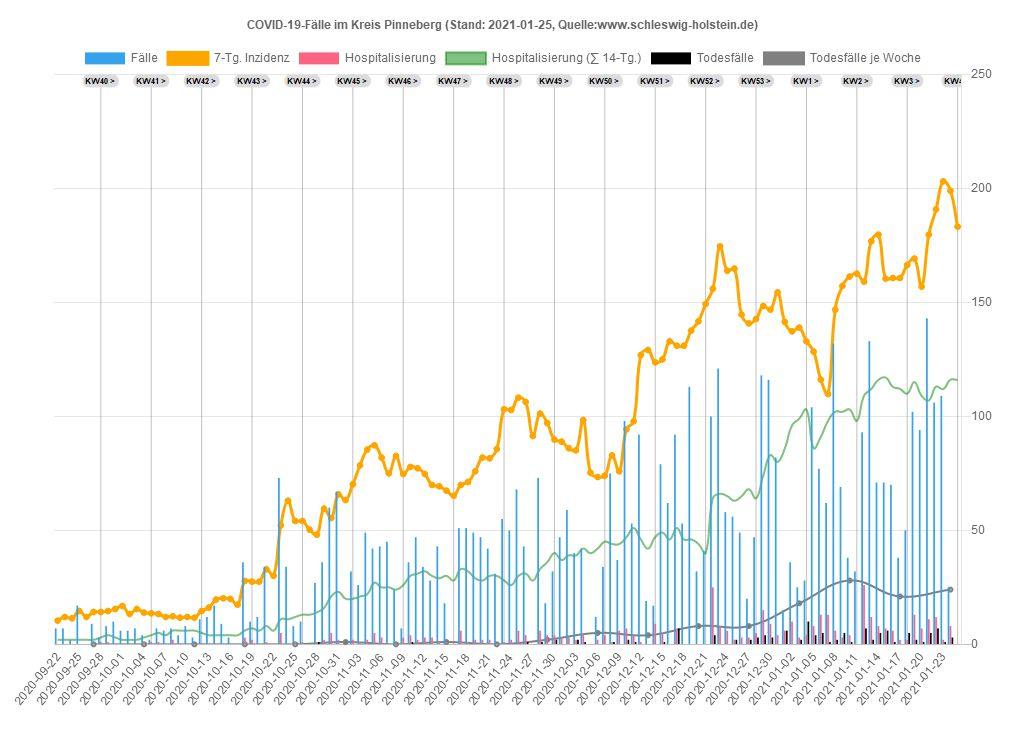
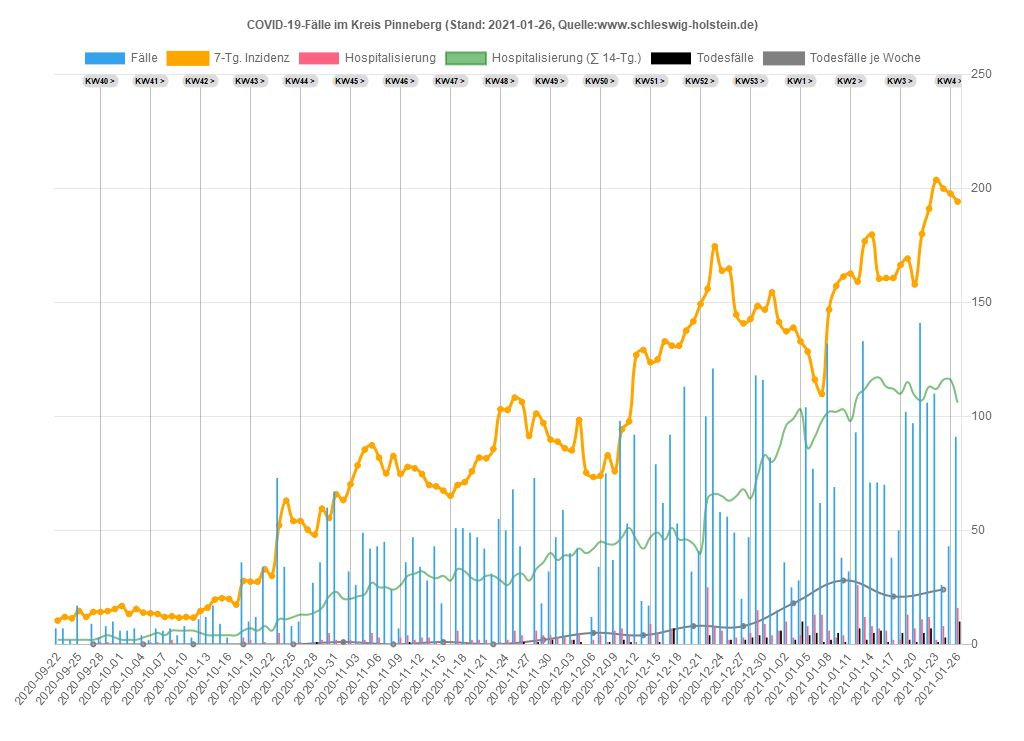
26.01.2021 22:02:45,57

Changed region(s): [[0.0312, 0.2173, 0.9375, 0.9622], [0.1875, 0.0931, 0.9375, 0.1242], [0.125, 0.0931, 0.1562, 0.1242]]

diff --git a/sh/Data_SH.js b/sh/Data_SH.js
@@ -1,20 +1,20 @@
 var chdata={
-labels: ["2020-09-22","2020-09-23","2020-09-24","2020-09-25","2020-09-26","2020-09-27","2020-09-28","2020-09-29","2020-09-30","2020-10-01","2020-10-02","2020-10-03","2020-10-04","2020-10-05","2020-10-06","2020-10-07","2020-10-08","2020-10-09","2020-10-10","2020-10-11","2020-10-12","2020-10-13","2020-10-14","2020-10-15","2020-10-16","2020-10-17","2020-10-18","2020-10-19","2020-10-20","2020-10-21","2020-10-22","2020-10-23","2020-10-24","2020-10-25","2020-10-26","2020-10-27","2020-10-28","2020-10-29","2020-10-30","2020-10-31","2020-11-01","2020-11-02","2020-11-03","2020-11-04","2020-11-05","2020-11-06","2020-11-07","2020-11-08","2020-11-09","2020-11-10","2020-11-11","2020-11-12","2020-11-13","2020-11-14","2020-11-15","2020-11-16","2020-11-17","2020-11-18","2020-11-19","2020-11-20","2020-11-21","2020-11-22","2020-11-23","2020-11-24","2020-11-25","2020-11-26","2020-11-27","2020-11-28","2020-11-29","2020-11-30","2020-12-01","2020-12-02","2020-12-03","2020-12-04","2020-12-05","2020-12-06","2020-12-07","2020-12-08","2020-12-09","2020-12-10","2020-12-11","2020-12-12","2020-12-13","2020-12-14","2020-12-15","2020-12-16","2020-12-17","2020-12-18","2020-12-19","2020-12-20","2020-12-21","2020-12-22","2020-12-23","2020-12-24","2020-12-25","2020-12-26","2020-12-27","2020-12-28","2020-12-29","2020-12-30","2020-12-31","2021-01-01","2021-01-02","2021-01-03","2021-01-04","2021-01-05","2021-01-06","2021-01-07","2021-01-08","2021-01-09","2021-01-10","2021-01-11","2021-01-12","2021-01-13","2021-01-14","2021-01-15","2021-01-16","2021-01-17","2021-01-18","2021-01-19","2021-01-20","2021-01-21","2021-01-22","2021-01-23","2021-01-24","2021-01-25"],
+labels: ["2020-09-22","2020-09-23","2020-09-24","2020-09-25","2020-09-26","2020-09-27","2020-09-28","2020-09-29","2020-09-30","2020-10-01","2020-10-02","2020-10-03","2020-10-04","2020-10-05","2020-10-06","2020-10-07","2020-10-08","2020-10-09","2020-10-10","2020-10-11","2020-10-12","2020-10-13","2020-10-14","2020-10-15","2020-10-16","2020-10-17","2020-10-18","2020-10-19","2020-10-20","2020-10-21","2020-10-22","2020-10-23","2020-10-24","2020-10-25","2020-10-26","2020-10-27","2020-10-28","2020-10-29","2020-10-30","2020-10-31","2020-11-01","2020-11-02","2020-11-03","2020-11-04","2020-11-05","2020-11-06","2020-11-07","2020-11-08","2020-11-09","2020-11-10","2020-11-11","2020-11-12","2020-11-13","2020-11-14","2020-11-15","2020-11-16","2020-11-17","2020-11-18","2020-11-19","2020-11-20","2020-11-21","2020-11-22","2020-11-23","2020-11-24","2020-11-25","2020-11-26","2020-11-27","2020-11-28","2020-11-29","2020-11-30","2020-12-01","2020-12-02","2020-12-03","2020-12-04","2020-12-05","2020-12-06","2020-12-07","2020-12-08","2020-12-09","2020-12-10","2020-12-11","2020-12-12","2020-12-13","2020-12-14","2020-12-15","2020-12-16","2020-12-17","2020-12-18","2020-12-19","2020-12-20","2020-12-21","2020-12-22","2020-12-23","2020-12-24","2020-12-25","2020-12-26","2020-12-27","2020-12-28","2020-12-29","2020-12-30","2020-12-31","2021-01-01","2021-01-02","2021-01-03","2021-01-04","2021-01-05","2021-01-06","2021-01-07","2021-01-08","2021-01-09","2021-01-10","2021-01-11","2021-01-12","2021-01-13","2021-01-14","2021-01-15","2021-01-16","2021-01-17","2021-01-18","2021-01-19","2021-01-20","2021-01-21","2021-01-22","2021-01-23","2021-01-24","2021-01-25","2021-01-26"],
 datasets: [
 {label: 'Fälle',
 type: 'bar',
 backgroundColor: window.chartColors.blue,
-data: [38,42,63,53,15,15,38,48,49,27,50,16,24,39,54,45,79,54,26,25,65,65,65,55,90,26,88,163,111,160,136,236,142,115,164,164,280,215,313,265,161,142,236,262,220,274,233,177,215,252,247,192,296,158,161,100,294,208,264,250,153,121,145,251,256,225,180,219,71,81,244,240,245,318,234,122,179,356,340,443,429,444,144,210,506,522,489,553,440,193,280,589,673,366,177,201,188,268,576,466,357,135,264,203,265,542,537,482,523,408,143,261,399,491,422,417,358,202,239,468,482,504,458,441,144,109]},
+data: [38,42,63,53,15,15,38,48,49,27,50,16,24,39,54,45,79,54,26,25,65,65,65,55,90,26,88,163,111,160,136,236,142,115,164,164,280,215,313,265,161,142,236,262,220,274,233,177,215,252,247,192,296,158,161,100,294,208,264,250,153,121,145,251,256,225,180,219,71,81,244,240,245,318,234,122,179,356,340,443,429,444,144,210,506,522,489,553,440,193,280,589,673,366,177,201,188,268,576,466,357,135,264,203,265,542,537,482,523,408,143,261,399,491,422,417,358,202,239,468,485,501,459,443,148,155,494]},
 {label: '7-Tg. Inzidenz',
 type: 'line',
 fill: false,
 pointBackgroundColor: 'orange',
 borderColor: 'orange',
-data: [7.2,7.9,8.7,9.4,9.3,9.2,9.1,9.4,9.7,8.4,8.3,8.4,8.7,8.7,8.9,8.8,10.6,10.7,11.1,11.1,12.0,12.4,13.1,12.2,13.5,13.5,15.6,19.0,20.6,23.9,26.7,31.7,35.7,36.6,36.6,38.5,42.6,45.3,48.0,52.2,53.8,53.0,55.5,54.9,55.1,53.7,52.6,53.2,55.7,56.2,55.7,54.8,55.5,52.9,52.4,48.4,49.9,48.5,51.0,49.4,49.2,47.9,49.4,47.9,49.6,48.2,45.8,48.1,46.4,44.2,43.9,43.4,44.1,48.8,49.3,51.1,54.5,58.3,61.8,68.6,72.4,79.7,80.4,81.5,86.6,92.9,94.5,98.8,98.6,100.3,102.7,105.6,110.8,106.6,93.6,85.4,85.2,84.8,84.3,77.2,76.9,75.5,77.6,78.1,78.0,76.9,79.3,83.6,97.0,101.9,99.9,99.7,94.8,93.2,91.2,87.5,85.8,87.8,87.1,89.4,89.1,91.9,93.4,96.2,94.2,89.7]},
+data: [7.2,7.9,8.7,9.4,9.3,9.2,9.1,9.4,9.7,8.4,8.3,8.4,8.7,8.7,8.9,8.8,10.6,10.7,11.1,11.1,12.0,12.4,13.1,12.2,13.5,13.5,15.6,19.0,20.6,23.9,26.7,31.7,35.7,36.6,36.6,38.5,42.6,45.3,48.0,52.2,53.8,53.0,55.5,54.9,55.1,53.7,52.6,53.2,55.7,56.2,55.7,54.8,55.5,52.9,52.4,48.4,49.9,48.5,51.0,49.4,49.2,47.9,49.4,47.9,49.6,48.2,45.8,48.1,46.4,44.2,43.9,43.4,44.1,48.8,49.3,51.1,54.5,58.3,61.8,68.6,72.4,79.7,80.4,81.5,86.6,92.9,94.5,98.8,98.6,100.3,102.7,105.6,110.8,106.6,93.6,85.4,85.2,84.8,84.3,77.2,76.9,75.5,77.6,78.1,78.0,76.9,79.3,83.6,97.0,101.9,99.9,99.7,94.8,93.2,91.2,87.5,85.8,87.8,87.1,89.4,89.2,91.9,93.4,96.3,94.5,91.6,92.5]},
 {label: 'Hospitalisierung',
 type: 'bar',
 backgroundColor: window.chartColors.red,
-data: [1,2,7,1,0,0,2,1,3,1,1,0,4,3,1,1,4,2,0,3,5,1,1,2,4,0,9,10,8,9,12,7,5,6,7,7,11,10,11,6,3,9,19,20,15,15,5,7,13,15,21,13,17,8,17,13,23,10,15,9,7,7,13,16,26,19,12,14,15,10,12,8,10,14,3,5,24,13,26,20,14,12,6,26,27,16,20,18,8,13,13,43,35,23,17,21,26,25,46,33,33,20,34,32,51,58,35,46,34,30,22,45,69,51,59,52,32,37,36,51,53,47,34,33,38,51]},
+data: [1,2,7,1,0,0,2,1,3,1,1,0,4,3,1,1,4,2,0,3,5,1,1,2,4,0,9,10,8,9,12,7,5,6,7,7,11,10,11,6,3,9,19,20,15,15,5,7,13,15,21,13,17,8,17,13,23,10,15,9,7,7,13,16,26,19,12,14,15,10,12,8,10,14,3,5,24,13,26,20,14,12,6,26,27,16,20,18,8,13,13,43,35,23,17,21,26,25,46,33,33,20,34,32,51,58,35,46,34,30,22,45,69,51,59,52,32,37,36,51,53,47,34,33,38,51,37]},
 {label: 'Hosp. (∑ 14-Tg.)',
 type: 'line',
 fill: false,
@@ -22,17 +22,17 @@ hidden: true,
 borderColor: 'rgba(0,255,0,0.5)',
 borderWidth: 1.5,
 pointRadius: 0,
-data: [12,12,20,22,22,22,22,23,23,21,22,21,24,26,26,25,22,23,23,26,29,29,27,28,31,31,36,43,50,58,66,71,76,79,81,87,97,105,112,118,112,111,122,133,136,144,144,145,151,159,169,172,178,180,194,198,202,192,192,186,188,188,188,189,194,200,195,201,199,196,185,183,178,183,179,177,188,185,185,186,188,186,177,193,208,216,226,230,235,243,232,262,271,274,277,286,306,305,324,341,354,356,382,401,439,454,454,477,494,503,499,519,542,560,586,618,616,621,606,599,617,618,618,621,637,643]},
+data: [12,12,20,22,22,22,22,23,23,21,22,21,24,26,26,25,22,23,23,26,29,29,27,28,31,31,36,43,50,58,66,71,76,79,81,87,97,105,112,118,112,111,122,133,136,144,144,145,151,159,169,172,178,180,194,198,202,192,192,186,188,188,188,189,194,200,195,201,199,196,185,183,178,183,179,177,188,185,185,186,188,186,177,193,208,216,226,230,235,243,232,262,271,274,277,286,306,305,324,341,354,356,382,401,439,454,454,477,494,503,499,519,542,560,586,618,616,621,606,599,617,618,618,621,637,643,611]},
 {label: 'Aktuell im Krankenhaus',
 type: 'line',
 fill: false,
 pointBackgroundColor: 'green',
 borderColor: 'green',
-data: [6,6,6,6,6,6,6,11,11,11,11,14,14,15,15,14,14,14,13,13,18,18,18,21,24,24,24,24,31,31,31,31,51,51,58,58,58,58,58,58,58,94,110,114,119,118,124,120,126,116,113,119,112,116,116,148,145,151,141,141,141,141,155,142,122,113,118,118,118,124,114,110,109,114,114,114,131,122,128,132,133,133,133,177,181,194,201,212,236,250,275,271,267,262,262,262,262,309,318,322,346,346,376,376,390,412,376,379,364,364,364,384,362,373,382,398,426,473,454,457,457,438,447,461,485,499]},
+data: [6,6,6,6,6,6,6,11,11,11,11,14,14,15,15,14,14,14,13,13,18,18,18,21,24,24,24,24,31,31,31,31,51,51,58,58,58,58,58,58,58,94,110,114,119,118,124,120,126,116,113,119,112,116,116,148,145,151,141,141,141,141,155,142,122,113,118,118,118,124,114,110,109,114,114,114,131,122,128,132,133,133,133,177,181,194,201,212,236,250,275,271,267,262,262,262,262,309,318,322,346,346,376,376,390,412,376,379,364,364,364,384,362,373,382,398,426,473,454,457,457,438,447,461,485,499,499]},
 {label: 'Todesfälle',
 type: 'bar',
 backgroundColor: 'black',
-data: [0,0,0,0,0,0,0,1,0,0,0,0,0,0,0,0,0,0,0,0,0,1,0,0,0,0,0,0,0,0,1,0,0,3,0,0,3,4,1,0,2,6,7,2,2,6,0,1,4,3,5,0,5,1,3,5,0,2,2,2,1,0,3,4,1,3,3,1,4,2,3,1,4,1,0,1,4,2,5,7,7,1,2,2,6,7,11,3,2,0,9,15,4,3,4,7,10,18,17,14,2,9,7,3,29,22,17,6,14,11,9,15,25,15,15,24,3,1,23,16,16,18,16,3,11,14]},
+data: [0,0,0,0,0,0,0,1,0,0,0,0,0,0,0,0,0,0,0,0,0,1,0,0,0,0,0,0,0,0,1,0,0,3,0,0,3,4,1,0,2,6,7,2,2,6,0,1,4,3,5,0,5,1,3,5,0,2,2,2,1,0,3,4,1,3,3,1,4,2,3,1,4,1,0,1,4,2,5,7,7,1,2,2,6,7,11,3,2,0,9,15,4,3,4,7,10,18,17,14,2,9,7,3,29,22,17,6,14,11,9,15,25,15,15,24,3,1,23,16,16,18,16,3,11,14,25]},
 {label: 'Todesfälle je Woche',
 type: 'line',
 fill: false,
@@ -41,6 +41,6 @@ borderColor: 'rgba(128,128,128,1)',
 borderWidth: 2,
 pointRadius: 2,
 yAxisID: 'first-y-axis',
-data: [,,,,,0,,,,,,,1,,,,,,,0,,,,,,,1,,,,,,,4,,,,,,,10,,,,,,,24,,,,,,,21,,,,,,,12,,,,,,,19,,,,,,,12,,,,,,,28,,,,,,,31,,,,,,,52,,,,,,,70,,,,,,,108,,,,,,,98,,,,,,,103,]},
+data: [,,,,,0,,,,,,,1,,,,,,,0,,,,,,,1,,,,,,,4,,,,,,,10,,,,,,,24,,,,,,,21,,,,,,,12,,,,,,,19,,,,,,,12,,,,,,,28,,,,,,,31,,,,,,,52,,,,,,,70,,,,,,,108,,,,,,,98,,,,,,,103,,]},
 ]};
 

diff --git a/sh/Kreis_PI.js b/sh/Kreis_PI.js
@@ -1,23 +1,23 @@
 var chdata={
-labels: ["2020-09-22","2020-09-23","2020-09-24","2020-09-25","2020-09-26","2020-09-27","2020-09-28","2020-09-29","2020-09-30","2020-10-01","2020-10-02","2020-10-03","2020-10-04","2020-10-05","2020-10-06","2020-10-07","2020-10-08","2020-10-09","2020-10-10","2020-10-11","2020-10-12","2020-10-13","2020-10-14","2020-10-15","2020-10-16","2020-10-17","2020-10-18","2020-10-19","2020-10-20","2020-10-21","2020-10-22","2020-10-23","2020-10-24","2020-10-25","2020-10-26","2020-10-27","2020-10-28","2020-10-29","2020-10-30","2020-10-31","2020-11-01","2020-11-02","2020-11-03","2020-11-04","2020-11-05","2020-11-06","2020-11-07","2020-11-08","2020-11-09","2020-11-10","2020-11-11","2020-11-12","2020-11-13","2020-11-14","2020-11-15","2020-11-16","2020-11-17","2020-11-18","2020-11-19","2020-11-20","2020-11-21","2020-11-22","2020-11-23","2020-11-24","2020-11-25","2020-11-26","2020-11-27","2020-11-28","2020-11-29","2020-11-30","2020-12-01","2020-12-02","2020-12-03","2020-12-04","2020-12-05","2020-12-06","2020-12-07","2020-12-08","2020-12-09","2020-12-10","2020-12-11","2020-12-12","2020-12-13","2020-12-14","2020-12-15","2020-12-16","2020-12-17","2020-12-18","2020-12-19","2020-12-20","2020-12-21","2020-12-22","2020-12-23","2020-12-24","2020-12-25","2020-12-26","2020-12-27","2020-12-28","2020-12-29","2020-12-30","2020-12-31","2021-01-01","2021-01-02","2021-01-03","2021-01-04","2021-01-05","2021-01-06","2021-01-07","2021-01-08","2021-01-09","2021-01-10","2021-01-11","2021-01-12","2021-01-13","2021-01-14","2021-01-15","2021-01-16","2021-01-17","2021-01-18","2021-01-19","2021-01-20","2021-01-21","2021-01-22","2021-01-23","2021-01-24","2021-01-25"],
+labels: ["2020-09-22","2020-09-23","2020-09-24","2020-09-25","2020-09-26","2020-09-27","2020-09-28","2020-09-29","2020-09-30","2020-10-01","2020-10-02","2020-10-03","2020-10-04","2020-10-05","2020-10-06","2020-10-07","2020-10-08","2020-10-09","2020-10-10","2020-10-11","2020-10-12","2020-10-13","2020-10-14","2020-10-15","2020-10-16","2020-10-17","2020-10-18","2020-10-19","2020-10-20","2020-10-21","2020-10-22","2020-10-23","2020-10-24","2020-10-25","2020-10-26","2020-10-27","2020-10-28","2020-10-29","2020-10-30","2020-10-31","2020-11-01","2020-11-02","2020-11-03","2020-11-04","2020-11-05","2020-11-06","2020-11-07","2020-11-08","2020-11-09","2020-11-10","2020-11-11","2020-11-12","2020-11-13","2020-11-14","2020-11-15","2020-11-16","2020-11-17","2020-11-18","2020-11-19","2020-11-20","2020-11-21","2020-11-22","2020-11-23","2020-11-24","2020-11-25","2020-11-26","2020-11-27","2020-11-28","2020-11-29","2020-11-30","2020-12-01","2020-12-02","2020-12-03","2020-12-04","2020-12-05","2020-12-06","2020-12-07","2020-12-08","2020-12-09","2020-12-10","2020-12-11","2020-12-12","2020-12-13","2020-12-14","2020-12-15","2020-12-16","2020-12-17","2020-12-18","2020-12-19","2020-12-20","2020-12-21","2020-12-22","2020-12-23","2020-12-24","2020-12-25","2020-12-26","2020-12-27","2020-12-28","2020-12-29","2020-12-30","2020-12-31","2021-01-01","2021-01-02","2021-01-03","2021-01-04","2021-01-05","2021-01-06","2021-01-07","2021-01-08","2021-01-09","2021-01-10","2021-01-11","2021-01-12","2021-01-13","2021-01-14","2021-01-15","2021-01-16","2021-01-17","2021-01-18","2021-01-19","2021-01-20","2021-01-21","2021-01-22","2021-01-23","2021-01-24","2021-01-25","2021-01-26"],
 datasets: [
 {label: 'Fälle',
 type: 'bar',
 backgroundColor: window.chartColors.blue,
 yAxisID: 'first-y-axis',
-data: [7,7,2,17,0,9,3,8,10,6,6,7,4,2,7,6,7,4,8,3,11,12,17,9,3,0,36,10,12,34,0,73,34,8,10,0,27,36,60,67,0,32,26,49,42,43,45,24,7,36,47,34,28,43,18,0,51,51,49,47,42,31,55,50,68,43,0,73,18,32,47,59,40,42,0,12,34,75,37,98,53,92,19,17,79,62,92,53,113,32,41,100,121,58,56,49,20,47,118,116,82,15,36,25,28,104,77,62,132,69,38,32,93,133,71,71,70,38,50,102,94,143,106,109,25,0]},
+data: [7,7,2,17,0,9,3,8,10,6,6,7,4,2,7,6,7,4,8,3,11,12,17,9,3,0,36,10,12,34,0,73,34,8,10,0,27,36,60,67,0,32,26,49,42,43,45,24,7,36,47,34,28,43,18,0,51,51,49,47,42,31,55,50,68,43,0,73,18,32,47,59,40,42,0,12,34,75,37,98,53,92,19,17,79,62,92,53,113,32,41,100,121,58,56,49,20,47,118,116,82,15,36,25,28,104,77,62,132,69,38,32,93,133,71,71,70,38,50,102,97,141,106,110,26,43,91]},
 {label: '7-Tg. Inzidenz',
 type: 'line',
 fill: false,
 pointBackgroundColor: 'orange',
 borderColor: 'orange',
 yAxisID: 'first-y-axis',
-data: [10.4,12.0,11.4,14.6,12.0213981,14.2,14.2,14.6,15.5,16.8,13.3,15.5,13.9,13.6,13.3,12.0,12.3,11.7,12.0,11.7,14.6,16.1,19.6,20.2,19.9,17.399392,27.8,27.5,27.5,32.9,30.0534952,52.2,63.0,54.1,54.1,50.3000604,48.1,59.5,55.4,65.8,63.2705163,70.2,78.5,85.4,87.3,81.9,75.0,82.6,74.7,77.8,77.2,74.7,69.9,69.3,67.4,65.1686317,69.9,71.2,75.9,81.9,81.6,85.7,103.1,102.8,108.2,106.3,91.425896,101.2,97.1,89.8,88.9,86.0,85.1,98.4,75.2919143,73.4,74.0,82.9,75.9,94.3,97.8,126.9,129.1,123.7,125.0,132.9,131.0,131.0,137.6,141.7,149.3,156.0,174.6,163.9,164.8,144.6,140.8,142.7,148.4,146.8,154.4,141.4,137.3,138.9,132.9,128.4,116.1,109.8,146.8,157.2,161.3,162.6,159.1,176.8,179.7,160.4,160.7,160.7,166.4,169.2,156.9,179.7,190.8,203.1,199.0,183.2]},
+data: [10.4,12.0,11.4,14.6,12.0213981,14.2,14.2,14.6,15.5,16.8,13.3,15.5,13.9,13.6,13.3,12.0,12.3,11.7,12.0,11.7,14.6,16.1,19.6,20.2,19.9,17.399392,27.8,27.5,27.5,32.9,30.0534952,52.2,63.0,54.1,54.1,50.3000604,48.1,59.5,55.4,65.8,63.2705163,70.2,78.5,85.4,87.3,81.9,75.0,82.6,74.7,77.8,77.2,74.7,69.9,69.3,67.4,65.1686317,69.9,71.2,75.9,81.9,81.6,85.7,103.1,102.8,108.2,106.3,91.425896,101.2,97.1,89.8,88.9,86.0,85.1,98.4,75.2919143,73.4,74.0,82.9,75.9,94.3,97.8,126.9,129.1,123.7,125.0,132.9,131.0,131.0,137.6,141.7,149.3,156.0,174.6,163.9,164.8,144.6,140.8,142.7,148.4,146.8,154.4,141.4,137.3,138.9,132.9,128.4,116.1,109.8,146.8,157.2,161.3,162.6,159.1,176.8,179.7,160.4,160.7,160.7,166.4,169.2,157.9,180.0,191.1,203.7,199.9,197.7,194.2]},
 {label: 'Hospitalisierung',
 type: 'bar',
 backgroundColor: window.chartColors.red,
 yAxisID: 'first-y-axis',
-data: [0,0,0,0,0,0,1,1,0,0,0,0,1,1,1,-1,2,0,0,0,0,0,0,0,0,0,3,2,0,1,0,5,0,1,1,0,1,2,5,2,0,2,1,2,5,3,0,0,3,4,2,3,3,1,1,0,6,1,2,2,2,0,1,2,6,4,0,6,4,4,3,3,2,5,0,2,4,1,6,7,4,1,0,9,5,0,7,0,0,0,0,25,8,6,2,3,3,5,15,9,4,6,10,3,4,8,13,13,6,3,4,0,26,12,8,7,6,2,2,13,7,11,12,2,8,0]},
+data: [0,0,0,0,0,0,1,1,0,0,0,0,1,1,1,-1,2,0,0,0,0,0,0,0,0,0,3,2,0,1,0,5,0,1,1,0,1,2,5,2,0,2,1,2,5,3,0,0,3,4,2,3,3,1,1,0,6,1,2,2,2,0,1,2,6,4,0,6,4,4,3,3,2,5,0,2,4,1,6,7,4,1,0,9,5,0,7,0,0,0,0,25,8,6,2,3,3,5,15,9,4,6,10,3,4,8,13,13,6,3,4,0,26,12,8,7,6,2,2,13,7,11,12,2,8,0,16]},
 {label: 'Hospitalisierung (∑ 14-Tg.)',
 type: 'line',
 pointRadius: 0,
@@ -25,12 +25,12 @@ fill: false,
 borderColor: 'rgba(0,128,0,0.5)',
 borderWidth: 2,
 yAxisID: 'first-y-axis',
-data: [2,2,2,2,2,2,3,4,3,2,2,2,3,4,5,4,6,6,6,6,5,4,4,4,4,4,6,7,6,8,6,11,11,12,13,13,14,16,21,23,20,20,21,22,27,25,25,24,26,30,31,32,30,29,30,28,33,32,29,28,30,30,28,26,30,31,28,33,36,40,37,39,39,42,40,42,45,44,44,47,51,46,42,47,49,46,51,46,46,44,40,64,66,65,63,65,68,64,74,83,80,86,96,99,103,86,91,98,102,102,103,98,109,112,116,117,113,112,110,115,109,107,113,112,116,116]},
+data: [2,2,2,2,2,2,3,4,3,2,2,2,3,4,5,4,6,6,6,6,5,4,4,4,4,4,6,7,6,8,6,11,11,12,13,13,14,16,21,23,20,20,21,22,27,25,25,24,26,30,31,32,30,29,30,28,33,32,29,28,30,30,28,26,30,31,28,33,36,40,37,39,39,42,40,42,45,44,44,47,51,46,42,47,49,46,51,46,46,44,40,64,66,65,63,65,68,64,74,83,80,86,96,99,103,86,91,98,102,102,103,98,109,112,116,117,113,112,110,115,109,107,113,112,116,116,106]},
 {label: 'Todesfälle',
 type: 'bar',
 backgroundColor: 'black',
 yAxisID: 'first-y-axis',
-data: [0,0,0,0,0,0,0,0,0,0,0,0,0,0,0,0,0,0,0,0,0,0,0,0,0,0,0,0,0,0,0,0,0,0,0,0,1,0,0,0,0,0,0,0,0,0,0,0,0,1,0,0,0,0,0,0,0,0,0,0,0,0,0,0,0,1,0,1,0,2,0,0,2,1,0,0,0,1,0,2,1,0,0,0,1,0,7,0,0,0,0,4,0,0,2,0,2,3,4,3,0,6,0,2,10,4,5,1,2,5,1,0,7,2,5,6,1,0,5,2,1,5,7,1,3,0]},
+data: [0,0,0,0,0,0,0,0,0,0,0,0,0,0,0,0,0,0,0,0,0,0,0,0,0,0,0,0,0,0,0,0,0,0,0,0,1,0,0,0,0,0,0,0,0,0,0,0,0,1,0,0,0,0,0,0,0,0,0,0,0,0,0,0,0,1,0,1,0,2,0,0,2,1,0,0,0,1,0,2,1,0,0,0,1,0,7,0,0,0,0,4,0,0,2,0,2,3,4,3,0,6,0,2,10,4,5,1,2,5,1,0,7,2,5,6,1,0,5,2,1,5,7,1,3,0,10]},
 {label: 'Todesfälle je Woche',
 type: 'line',
 fill: false,
@@ -39,6 +39,6 @@ borderColor: 'rgba(128,128,128,1)',
 borderWidth: 2,
 pointRadius: 2,
 yAxisID: 'first-y-axis',
-data: [,,,,,0,,,,,,,0,,,,,,,0,,,,,,,0,,,,,,,0,,,,,,,1,,,,,,,0,,,,,,,1,,,,,,,0,,,,,,,2,,,,,,,5,,,,,,,4,,,,,,,8,,,,,,,8,,,,,,,18,,,,,,,28,,,,,,,21,,,,,,,24,]},
+data: [,,,,,0,,,,,,,0,,,,,,,0,,,,,,,0,,,,,,,0,,,,,,,1,,,,,,,0,,,,,,,1,,,,,,,0,,,,,,,2,,,,,,,5,,,,,,,4,,,,,,,8,,,,,,,8,,,,,,,18,,,,,,,28,,,,,,,21,,,,,,,24,,]},
 ]};
 

diff --git a/sh/Data_SH_Alter.js b/sh/Data_SH_Alter.js
@@ -136,7 +136,8 @@ var chdata={
 				{x: '2021-01-22', y: 'Alle', v: 90.9850736, casesum: 2642},{x: '2021-01-22', y: '00-09', v: 36.2259565, casesum: 93},{x: '2021-01-22', y: '10-19', v: 68.1142145, casesum: 188},{x: '2021-01-22', y: '20-29', v: 119.389177, casesum: 382},{x: '2021-01-22', y: '30-39', v: 111.875128, casesum: 376},{x: '2021-01-22', y: '40-49', v: 93.9079022, casesum: 331},{x: '2021-01-22', y: '50-59', v: 74.8888274, casesum: 371},{x: '2021-01-22', y: '60-69', v: 60.5177014, casesum: 220},{x: '2021-01-22', y: '70-79', v: 64.2041557, casesum: 190},{x: '2021-01-22', y: '80-89', v: 186.197873, casesum: 333},{x: '2021-01-22', y: '90+', v: 548.306496, casesum: 158},
 				{x: '2021-01-23', y: 'Alle', v: 94.5666207, casesum: 2746},{x: '2021-01-23', y: '00-09', v: 38.563115, casesum: 99},{x: '2021-01-23', y: '10-19', v: 74.9980979, casesum: 207},{x: '2021-01-23', y: '20-29', v: 118.139029, casesum: 378},{x: '2021-01-23', y: '30-39', v: 113.95791, casesum: 383},{x: '2021-01-23', y: '40-49', v: 99.298386, casesum: 350},{x: '2021-01-23', y: '50-59', v: 78.320391, casesum: 388},{x: '2021-01-23', y: '60-69', v: 62.1681842, casesum: 226},{x: '2021-01-23', y: '70-79', v: 65.8937387, casesum: 195},{x: '2021-01-23', y: '80-89', v: 202.972456, casesum: 363},{x: '2021-01-23', y: '90+', v: 544.836202, casesum: 157},
 				{x: '2021-01-24', y: 'Alle', v: 91.9148983, casesum: 2669},{x: '2021-01-24', y: '00-09', v: 38.563115, casesum: 99},{x: '2021-01-24', y: '10-19', v: 69.9257628, casesum: 193},{x: '2021-01-24', y: '20-29', v: 120.951863, casesum: 387},{x: '2021-01-24', y: '30-39', v: 110.684967, casesum: 372},{x: '2021-01-24', y: '40-49', v: 96.7449989, casesum: 341},{x: '2021-01-24', y: '50-59', v: 78.1185343, casesum: 387},{x: '2021-01-24', y: '60-69', v: 61.0678623, casesum: 222},{x: '2021-01-24', y: '70-79', v: 61.8387394, casesum: 183},{x: '2021-01-24', y: '80-89', v: 189.55279, casesum: 339},{x: '2021-01-24', y: '90+', v: 506.662965, casesum: 146},
-				{x: '2021-01-25', y: 'Alle', v: 88.5744168, casesum: 2572},{x: '2021-01-25', y: '00-09', v: 37.7840621, casesum: 97},{x: '2021-01-25', y: '10-19', v: 64.8534276, casesum: 179},{x: '2021-01-25', y: '20-29', v: 117.513955, casesum: 376},{x: '2021-01-25', y: '30-39', v: 106.221864, casesum: 357},{x: '2021-01-25', y: '40-49', v: 90.7870957, casesum: 320},{x: '2021-01-25', y: '50-59', v: 77.3111076, casesum: 383},{x: '2021-01-25', y: '60-69', v: 59.4173796, casesum: 216},{x: '2021-01-25', y: '70-79', v: 61.8387394, casesum: 183},{x: '2021-01-25', y: '80-89', v: 181.724651, casesum: 325},{x: '2021-01-25', y: '90+', v: 471.960022, casesum: 136}
+				{x: '2021-01-25', y: 'Alle', v: 88.5744168, casesum: 2572},{x: '2021-01-25', y: '00-09', v: 37.7840621, casesum: 97},{x: '2021-01-25', y: '10-19', v: 64.8534276, casesum: 179},{x: '2021-01-25', y: '20-29', v: 117.513955, casesum: 376},{x: '2021-01-25', y: '30-39', v: 106.221864, casesum: 357},{x: '2021-01-25', y: '40-49', v: 90.7870957, casesum: 320},{x: '2021-01-25', y: '50-59', v: 77.3111076, casesum: 383},{x: '2021-01-25', y: '60-69', v: 59.4173796, casesum: 216},{x: '2021-01-25', y: '70-79', v: 61.8387394, casesum: 183},{x: '2021-01-25', y: '80-89', v: 181.724651, casesum: 325},{x: '2021-01-25', y: '90+', v: 471.960022, casesum: 136},
+				{x: '2021-01-26', y: 'Alle', v: 91.2605772, casesum: 2650},{x: '2021-01-26', y: '00-09', v: 46.7431697, casesum: 120},{x: '2021-01-26', y: '10-19', v: 72.4619303, casesum: 200},{x: '2021-01-26', y: '20-29', v: 118.139029, casesum: 378},{x: '2021-01-26', y: '30-39', v: 101.46122, casesum: 341},{x: '2021-01-26', y: '40-49', v: 97.0287086, casesum: 342},{x: '2021-01-26', y: '50-59', v: 81.5500978, casesum: 404},{x: '2021-01-26', y: '60-69', v: 58.8672187, casesum: 214},{x: '2021-01-26', y: '70-79', v: 66.569572, casesum: 197},{x: '2021-01-26', y: '80-89', v: 185.079567, casesum: 331},{x: '2021-01-26', y: '90+', v: 426.846197, casesum: 123}
 			],
 			backgroundColor: function(context) {
 				return inzColor(context.dataset.data[context.dataIndex].v)
@@ -144,7 +145,7 @@ var chdata={
 			width: function(context) {
 				const a = context.chart.chartArea
 				if (!a) return 0
-				return (a.right - a.left) / 133.5
+				return (a.right - a.left) / 134.5
 			},
 			height: function(context) {
 				const a = context.chart.chartArea
@@ -156,7 +157,7 @@ var chdata={
 	options: {
 		legend: { display: false },
 		scales: {
-			xAxes: [{type: 'category', labels: ["2020-09-15","2020-09-16","2020-09-17","2020-09-18","2020-09-19","2020-09-20","2020-09-21","2020-09-22","2020-09-23","2020-09-24","2020-09-25","2020-09-26","2020-09-27","2020-09-28","2020-09-29","2020-09-30","2020-10-01","2020-10-02","2020-10-03","2020-10-04","2020-10-05","2020-10-06","2020-10-07","2020-10-08","2020-10-09","2020-10-10","2020-10-11","2020-10-12","2020-10-13","2020-10-14","2020-10-15","2020-10-16","2020-10-17","2020-10-18","2020-10-19","2020-10-20","2020-10-21","2020-10-22","2020-10-23","2020-10-24","2020-10-25","2020-10-26","2020-10-27","2020-10-28","2020-10-29","2020-10-30","2020-10-31","2020-11-01","2020-11-02","2020-11-03","2020-11-04","2020-11-05","2020-11-06","2020-11-07","2020-11-08","2020-11-09","2020-11-10","2020-11-11","2020-11-12","2020-11-13","2020-11-14","2020-11-15","2020-11-16","2020-11-17","2020-11-18","2020-11-19","2020-11-20","2020-11-21","2020-11-22","2020-11-23","2020-11-24","2020-11-25","2020-11-26","2020-11-27","2020-11-28","2020-11-29","2020-11-30","2020-12-01","2020-12-02","2020-12-03","2020-12-04","2020-12-05","2020-12-06","2020-12-07","2020-12-08","2020-12-09","2020-12-10","2020-12-11","2020-12-12","2020-12-13","2020-12-14","2020-12-15","2020-12-16","2020-12-17","2020-12-18","2020-12-19","2020-12-20","2020-12-21","2020-12-22","2020-12-23","2020-12-24","2020-12-25","2020-12-26","2020-12-27","2020-12-28","2020-12-29","2020-12-30","2020-12-31","2021-01-01","2021-01-02","2021-01-03","2021-01-04","2021-01-05","2021-01-06","2021-01-07","2021-01-08","2021-01-09","2021-01-10","2021-01-11","2021-01-12","2021-01-13","2021-01-14","2021-01-15","2021-01-16","2021-01-17","2021-01-18","2021-01-19","2021-01-20","2021-01-21","2021-01-22","2021-01-23","2021-01-24","2021-01-25",], ticks: {display: true},gridlines:{display:false}}],
+			xAxes: [{type: 'category', labels: ["2020-09-15","2020-09-16","2020-09-17","2020-09-18","2020-09-19","2020-09-20","2020-09-21","2020-09-22","2020-09-23","2020-09-24","2020-09-25","2020-09-26","2020-09-27","2020-09-28","2020-09-29","2020-09-30","2020-10-01","2020-10-02","2020-10-03","2020-10-04","2020-10-05","2020-10-06","2020-10-07","2020-10-08","2020-10-09","2020-10-10","2020-10-11","2020-10-12","2020-10-13","2020-10-14","2020-10-15","2020-10-16","2020-10-17","2020-10-18","2020-10-19","2020-10-20","2020-10-21","2020-10-22","2020-10-23","2020-10-24","2020-10-25","2020-10-26","2020-10-27","2020-10-28","2020-10-29","2020-10-30","2020-10-31","2020-11-01","2020-11-02","2020-11-03","2020-11-04","2020-11-05","2020-11-06","2020-11-07","2020-11-08","2020-11-09","2020-11-10","2020-11-11","2020-11-12","2020-11-13","2020-11-14","2020-11-15","2020-11-16","2020-11-17","2020-11-18","2020-11-19","2020-11-20","2020-11-21","2020-11-22","2020-11-23","2020-11-24","2020-11-25","2020-11-26","2020-11-27","2020-11-28","2020-11-29","2020-11-30","2020-12-01","2020-12-02","2020-12-03","2020-12-04","2020-12-05","2020-12-06","2020-12-07","2020-12-08","2020-12-09","2020-12-10","2020-12-11","2020-12-12","2020-12-13","2020-12-14","2020-12-15","2020-12-16","2020-12-17","2020-12-18","2020-12-19","2020-12-20","2020-12-21","2020-12-22","2020-12-23","2020-12-24","2020-12-25","2020-12-26","2020-12-27","2020-12-28","2020-12-29","2020-12-30","2020-12-31","2021-01-01","2021-01-02","2021-01-03","2021-01-04","2021-01-05","2021-01-06","2021-01-07","2021-01-08","2021-01-09","2021-01-10","2021-01-11","2021-01-12","2021-01-13","2021-01-14","2021-01-15","2021-01-16","2021-01-17","2021-01-18","2021-01-19","2021-01-20","2021-01-21","2021-01-22","2021-01-23","2021-01-24","2021-01-25","2021-01-26",], ticks: {display: true},gridlines:{display:false}}],
 			yAxes: [{type: 'category', labels: ["Alle","00-09","10-19","20-29","30-39","40-49","50-59","60-69","70-79","80-89","90+"], offset:true, ticks: {display: true},gridlines:{display:false}}],
 		},
 	}

diff --git a/sh/index_sh_alter.html b/sh/index_sh_alter.html
@@ -5,7 +5,7 @@
 <meta property="og:image" content="index_sh_alter.jpg" />
 <meta property="og:type" content="website" />
 <meta property="og:locale" content="de_DE" />
-<meta property="og:updated_time" content="2021-01-26T20:51:51+01:00" />
+<meta property="og:updated_time" content="2021-01-26T22:02:45+01:00" />
 <title>Altersverteilung der COVID-19-Fälle in Schleswig-Holstein</title>
 <link rel="stylesheet" href="../css/style.css" media="screen" type="text/css">
 <link rel="stylesheet" media="screen" href="Chart.min.css"> 

diff --git a/sh/index_pi_alter.html b/sh/index_pi_alter.html
@@ -5,7 +5,7 @@
 <meta property="og:image" content="index_pi_alter.jpg" />
 <meta property="og:type" content="website" />
 <meta property="og:locale" content="de_DE" />
-<meta property="og:updated_time" content="2021-01-26T20:51:51+01:00" />
+<meta property="og:updated_time" content="2021-01-26T22:02:45+01:00" />
 <title>Altersverteilung der COVID-19-Fälle im Kreis Pinneberg</title>
 <link rel="stylesheet" href="../css/style.css" media="screen" type="text/css">
 <link rel="stylesheet" media="screen" href="Chart.min.css"> 

diff --git a/sh/index.html b/sh/index.html
@@ -5,7 +5,7 @@
 <meta property="og:image" content="index.jpg" />
 <meta property="og:type" content="website" />
 <meta property="og:locale" content="de_DE" />
-<meta property="og:updated_time" content="2021-01-26T20:51:51+01:00" />
+<meta property="og:updated_time" content="2021-01-26T22:02:45+01:00" />
 <title>COVID-19-Fälle im Kreis Pinneberg</title>
 <link rel="stylesheet" href="../css/style.css" media="screen" type="text/css">
 <link rel="stylesheet" media="screen" href="Chart.min.css"> 
